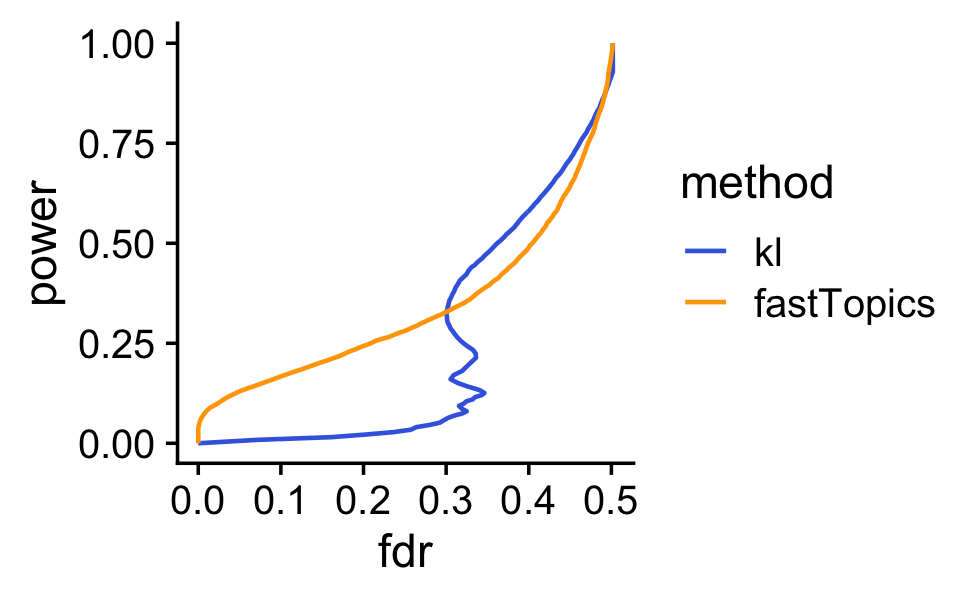
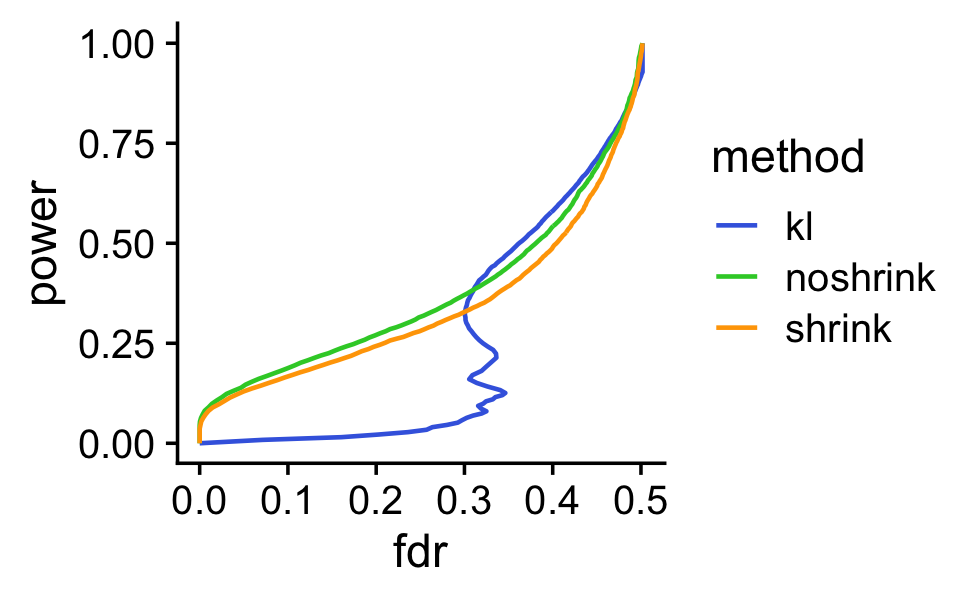
Added fastTopics without shrinkage to power vs. fdr plot in de_analysis_two_topics analysis.

diff --git a/docs/de_analysis_two_topics.html b/docs/de_analysis_two_topics.html
@@ -323,7 +323,7 @@ $(document).ready(function () {
 <div class="tab-content">
 <div id="summary" class="tab-pane fade in active">
 <p>
-<strong>Last updated:</strong> 2022-01-05
+<strong>Last updated:</strong> 2022-01-06
 </p>
 <p>
 <strong>Checks:</strong> <span class="glyphicon glyphicon-ok text-success" aria-hidden="true"></span> 7 <span class="glyphicon glyphicon-exclamation-sign text-danger" aria-hidden="true"></span> 0
@@ -414,16 +414,16 @@ This reproducible <a href="http://rmarkdown.rstudio.com">R Markdown</a> analysis
 <div class="panel panel-default">
 <div class="panel-heading">
 <p class="panel-title">
-<a data-toggle="collapse" data-parent="#workflowr-checks" href="#strongRepositoryversionstrongahrefhttpsgithubcomstephenslabsinglecelltopicstree353d153dc52ebcd1c8f5b47d218251eca3ebfb23targetblank353d153a"> <span class="glyphicon glyphicon-ok text-success" aria-hidden="true"></span> <strong>Repository version:</strong> <a href="https://github.com/stephenslab/single-cell-topics/tree/353d153dc52ebcd1c8f5b47d218251eca3ebfb23" target="_blank">353d153</a> </a>
+<a data-toggle="collapse" data-parent="#workflowr-checks" href="#strongRepositoryversionstrongahrefhttpsgithubcomstephenslabsinglecelltopicstree82cd06e155171f1fe491d3b9cee0caf86955a8abtargetblank82cd06ea"> <span class="glyphicon glyphicon-ok text-success" aria-hidden="true"></span> <strong>Repository version:</strong> <a href="https://github.com/stephenslab/single-cell-topics/tree/82cd06e155171f1fe491d3b9cee0caf86955a8ab" target="_blank">82cd06e</a> </a>
 </p>
 </div>
[2 lines of base64/hex data omitted]
 <div class="panel-body">
 <p>
 Great! You are using Git for version control. Tracking code development and connecting the code version to the results is critical for reproducibility.
 </p>
 <p>
-The results in this page were generated with repository version <a href="https://github.com/stephenslab/single-cell-topics/tree/353d153dc52ebcd1c8f5b47d218251eca3ebfb23" target="_blank">353d153</a>. See the <em>Past versions</em> tab to see a history of the changes made to the R Markdown and HTML files.
+The results in this page were generated with repository version <a href="https://github.com/stephenslab/single-cell-topics/tree/82cd06e155171f1fe491d3b9cee0caf86955a8ab" target="_blank">82cd06e</a>. See the <em>Past versions</em> tab to see a history of the changes made to the R Markdown and HTML files.
 </p>
 <p>
 Note that you need to be careful to ensure that all relevant files for the analysis have been committed to Git prior to generating the results (you can use <code>wflow_publish</code> or <code>wflow_git_commit</code>). workflowr only checks the R Markdown file, but you know if there are other scripts or data files that it depends on. Below is the status of the Git repository when the results were generated:
@@ -447,7 +447,6 @@ Ignored files:
     Ignored:    output/sims/
 
 Untracked files:
-    Untracked:  .DS_Store
     Untracked:  analysis/de_analysis_detailed_look_cache/
     Untracked:  analysis/de_analysis_detailed_look_more_cache/
     Untracked:  plots/
@@ -489,6 +488,57 @@ Message
 </tr>
 </thead>
 <tbody>
+<tr>
+<td>
+Rmd
+</td>
+<td>
+<a href="https://github.com/stephenslab/single-cell-topics/blob/82cd06e155171f1fe491d3b9cee0caf86955a8ab/analysis/de_analysis_two_topics.Rmd" target="_blank">82cd06e</a>
+</td>
+<td>
+Peter Carbonetto
+</td>
+<td>
+2022-01-06
+</td>
+<td>
+workflowr::wflow_publish(“de_analysis_two_topics.Rmd”, verbose = TRUE)
+</td>
+</tr>
+<tr>
+<td>
+Rmd
+</td>
+<td>
+<a href="https://github.com/stephenslab/single-cell-topics/blob/8e969685aef71bb5c3d42e8a7891a7787699b3a4/analysis/de_analysis_two_topics.Rmd" target="_blank">8e96968</a>
+</td>
+<td>
+Peter Carbonetto
+</td>
+<td>
+2022-01-06
+</td>
+<td>
+Added p-value histograms and power vs. fdr plot to de_analysis_six_topics.R script.
+</td>
+</tr>
+<tr>
+<td>
+html
+</td>
+<td>
+<a href="https://rawcdn.githack.com/stephenslab/single-cell-topics/d5539b2246f343ebfa85e640c31fa108a503ea79/docs/de_analysis_two_topics.html" target="_blank">d5539b2</a>
+</td>
+<td>
+Peter Carbonetto
+</td>
+<td>
+2022-01-05
+</td>
+<td>
+Build site.
+</td>
+</tr>
 <tr>
 <td>
 Rmd
@@ -883,13 +933,15 @@ Peter Carbonetto
 </div>
 </div>
 <p>Having compared the overall distributions of the gene-wise rankings, we now compare performance of these rankings by plotting power vs. FDR. Again, we restrict this comparison only to genes that are estimated to have greater (or equal) expression in topic 2 compared to topic 1.</p>
-<pre class="r"><code>v1 &lt;- create_fdr_vs_power_curve(-pdat$lkl,nonzero_lfc,length.out = 200)
-v2 &lt;- create_fdr_vs_power_curve(pdat$lfsr,nonzero_lfc,length.out = 200)
-dat  &lt;- rbind(cbind(v1,method = &quot;kl&quot;),
-              cbind(v2,method = &quot;fastTopics&quot;))
+<pre class="r"><code>v1  &lt;- create_fdr_vs_power_curve(-pdat$lkl,nonzero_lfc,length.out = 200)
+v2  &lt;- create_fdr_vs_power_curve(pdat$noshrink,nonzero_lfc,length.out = 200)
+v3  &lt;- create_fdr_vs_power_curve(pdat$lfsr,nonzero_lfc,length.out = 200)
+dat &lt;- rbind(cbind(v1,method = &quot;kl&quot;),
+             cbind(v2,method = &quot;noshrink&quot;),
+             cbind(v3,method = &quot;shrink&quot;))
 p &lt;- ggplot(dat,aes(x = fdr,y = power,color = method)) +
   geom_line(size = 0.65,orientation = &quot;y&quot;)  +
-  scale_color_manual(values = c(&quot;royalblue&quot;,&quot;orange&quot;)) +
+  scale_color_manual(values = c(&quot;royalblue&quot;,&quot;limegreen&quot;,&quot;orange&quot;)) +
   theme_cowplot()
 print(p)</code></pre>
 <p><img src="figure/de_analysis_two_topics.Rmd/fdr-vs-power-1.png" width="480" style="display: block; margin: auto;" /></p>
